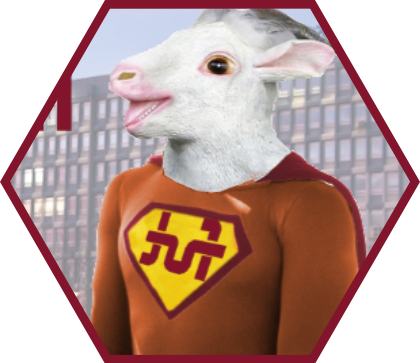
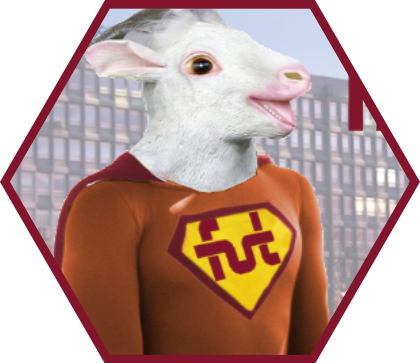
modified: colors, contact info

diff --git a/index.html b/index.html
@@ -82,7 +82,7 @@
                     </div>
                     <h3>ZAPROSZENIE</h3>
                     <div class="white-box">
-                        Koleżanki i Koledzy!
+                        Koleżanki i Koledzy! <br>
                         Jest nam niezmiernie miło zaprosić Was do uczestnictwa w Sesji Roboczej Forum Uczelni Technicznych,
                         która odbędzie się w Poznaniu w dniach 12-15 kwietnia 2018r.
                         Dołożyliśmy wszelkich starań, aby przyjazd tutaj był przede wszystkim bogaty merytorycznie,
@@ -91,7 +91,7 @@
                         samorządowej pracy. 
                     </div> 
                     <iframe src="https://www.youtube.com/embed/j-CA08prcfY" frameborder="0" allow="autoplay; encrypted-media" allowfullscreen></iframe>
-                    <a href="http://put.poznan.pl">REJESTRACJA</a>
+                    <a href="#" onclick="alert('Rejestracja nie jest jeszcze dostępna');">REJESTRACJA</a>
                 </div>
             </div>
 
@@ -165,9 +165,10 @@
 
                                 <h4>BLOK I</h4>
                                 <input type="radio" id="panel1" name="panels" onchange="display_panels();">
-                                <label for="panel1">Genialny Mówca</label>
+                                <label for="panel1">Sponsoring I</label>
                                 <div class="panels-about panels-hidden" id="panel1-block1">
-                                    <p>Lorem ipsum dolor sit amet, consectetur adipiscing elit, 
+                                    <p>Pozyskiwanie partnerów biznesowych<br>
+                                        Lorem ipsum dolor sit amet, consectetur adipiscing elit, 
                                         sed do eiusmod tempor incididunt ut labore et dolore magna aliqua. 
                                         Ut enim ad minim veniam, quis nostrud exercitation 
                                         ullamco laboris nisi ut aliquip ex ea commodo consequat. 
@@ -182,7 +183,7 @@
 
 
                                 <input type="radio" id="panel2" name="panels"  onchange="display_panels();">
-                                <label for="panel2">Genialny Mówca</label>
+                                <label for="panel2">Sponsoring II</label>
                                 <div class="panels-about panels-hidden" id="panel2-block1">
                                     <p>Lorem ipsum dolor sit amet, consectetur adipiscing elit, 
                                         sed do eiusmod tempor incididunt ut labore et dolore magna aliqua. 
@@ -200,7 +201,7 @@
                             <div class="panels-block" id="block2">
                                 <h4>BLOK II</h4>
                                 <input type="radio" id="panel3" name="panels"  onchange="display_panels();">
-                                <label for="panel3">Genialny Mówca</label>
+                                <label for="panel3">Ty, lider przysłości I</label>
                                 <div class="panels-about panels-hidden" id="panel1-block2">
                                     <p>Lorem ipsum dolor sit amet, consectetur adipiscing elit, 
                                         sed do eiusmod tempor incididunt ut labore et dolore magna aliqua. 
@@ -217,7 +218,7 @@
 
 
                                 <input type="radio" id="panel4" name="panels"  onchange="display_panels();">
-                                <label for="panel4">Genialny Mówca</label>
+                                <label for="panel4">Ty, lider przyszłości II</label>
                                 <div class="panels-about panels-hidden" id="panel2-block2">
                                     <p>Lorem ipsum dolor sit amet, consectetur adipiscing elit, 
                                         sed do eiusmod tempor incididunt ut labore et dolore magna aliqua. 
@@ -275,8 +276,8 @@
                             <div class="foto-section">
                                 <h4>Tomek Cielewicz</h4>
                                 <div id="foto1-logo" class="logo"></div>
-                                <h4>Koordynator ds. partnerów biznesowych</h4>
-                                <h5>123 234 345</h5>
+                                <h4>Koordynator ds. Partnerów Biznesowych</h4>
+                                <h5>603 132 148</h5>
                                 <h5>tomek.cielewicz@samorzad.put.poznan.pl</h5>
                             </div>
 
@@ -284,14 +285,14 @@
                                 <h4>Tomasz Kwapiszewski</h4>
                                 <div id="foto2-logo" class="logo"></div>
                                 <h4>Koordynator <br>Główny</h4>
-                                <h5>123 234 345</h5>
+                                <h5>514 906 598</h5>
                                 <h5>tomek.kwapiszewski@samorzad.put.poznan.pl</h5>
                             </div>
 
                             <div class="foto-section">
                                     <h4>Tomcio FUTmen</h4>
                                     <div id="foto3-logo" class="logo"></div>
-                                    <h4>Koordynator ds. rejestracji</h4>
+                                    <h4>Koordynator ds. Rejestracji</h4>
                                     <h5>123 234 345</h5>
                                     <h5>tomek.cielewicz@samorzad.put.poznan.pl</h5>
                             </div>
@@ -324,7 +325,7 @@
                     <div id="trivia" class="subpage p-layer p-layer-front">
                         <h3>CIEKAWOSTKI O POZNANIU</h3>
                         <div id="trivia-box">
-                            <li id="trivia-text"></li>
+                            <p id="trivia-text"></p>
                         </div>
                     </div>
             </div>

diff --git a/css/style.css b/css/style.css
@@ -23,7 +23,7 @@ body{
 
 
 h3{
-	background-color: #82152b;
+	background-color: #830628;
 	text-align: center;
 	color: #fff;
 	font-size: 2em;
@@ -51,7 +51,7 @@ header{
 		transition: all 0.2s ease 0s;
 	}
 	header a:hover{
-		color: #82152b;
+		color: #830628;
 
 	}
 
@@ -206,7 +206,7 @@ header{
 	}
 
 	#organizers .white-box{
-		color: #82152b;
+		color: #830628;
 		width: 59%;
 		height: 20%;
 		margin-left: auto;
@@ -221,7 +221,7 @@ header{
 		margin-right: auto;
 
 		background-color: #fff;
-		border: #82152b 8px solid;
+		border: #830628 8px solid;
 		width: 63%;
 		font-size: 4em;
 		margin-top: 0.5em;
@@ -232,7 +232,7 @@ header{
 		transition: all 0.3s ease 0s;
 	}
 	#organizers a:hover{
-		background-color: #82152b;
+		background-color: #830628;
 		color: #fff;
 	}
 
@@ -241,7 +241,7 @@ header{
 }
 
 .red-bg{
-	/* background-color: #82152b; */
+	/* background-color: #830628; */
 	background-color: rgba(130,21,43,0.6);
 	color: #fff;
 	height:100%;
@@ -363,7 +363,7 @@ h4{
 	#timetable ul.left{
 		width: 50%;
 		float: left;
-		border-right: 2px solid #82152b;
+		border-right: 2px solid #830628;
 		padding: 0 1% 0 0;
 		box-sizing: border-box;
 
@@ -373,7 +373,7 @@ h4{
 	#timetable ul.right{
 		width: 49%;
 		float: right;
-		border-left: 2px solid #82152b;
+		border-left: 2px solid #830628;
 		padding: 0 0 0 1%;
 
 		text-align: left;
@@ -391,7 +391,7 @@ h4{
 	}
 
 	#timetable ul li.event_now{
-		color: #82152b;
+		color: #830628;
 		font-weight: bold;
 	}
 
@@ -433,12 +433,12 @@ h4{
 
 	input:checked + label{
 		background-color: #fff;
-		color: #82152b;
+		color: #830628;
 	}
 
 	#label:hover + label{
 		background-color: #fff;
-		color: #82152b;
+		color: #830628;
 	}
 
 	#panels .panels-about{
@@ -475,6 +475,7 @@ h4{
 	}
 
 	.panels-block{
+		margin-top: 2em;
 		width: 45%;
 	}
 
@@ -539,7 +540,7 @@ h4{
 	}
 
 #group-trivia{
-	background-color: #82152b;
+	background-color: #830628;
 	height:50%;
 }
 
@@ -551,8 +552,9 @@ h4{
 	align-items: center;
 	justify-content: center;
 	height: 90%;
+	padding: 0 1em;
 }
-	
+
 
 #group-instagram{
 	background-color: #fff;
@@ -562,6 +564,12 @@ h4{
 	#group-instagram img{
 		border: solid #000 4px;
 		margin: 1em;
+	}
+
+	#instafeed{
+		display: flex;
+		justify-content: space-around;
+		flex-wrap: wrap;
 	}
 
 /* responsive */
